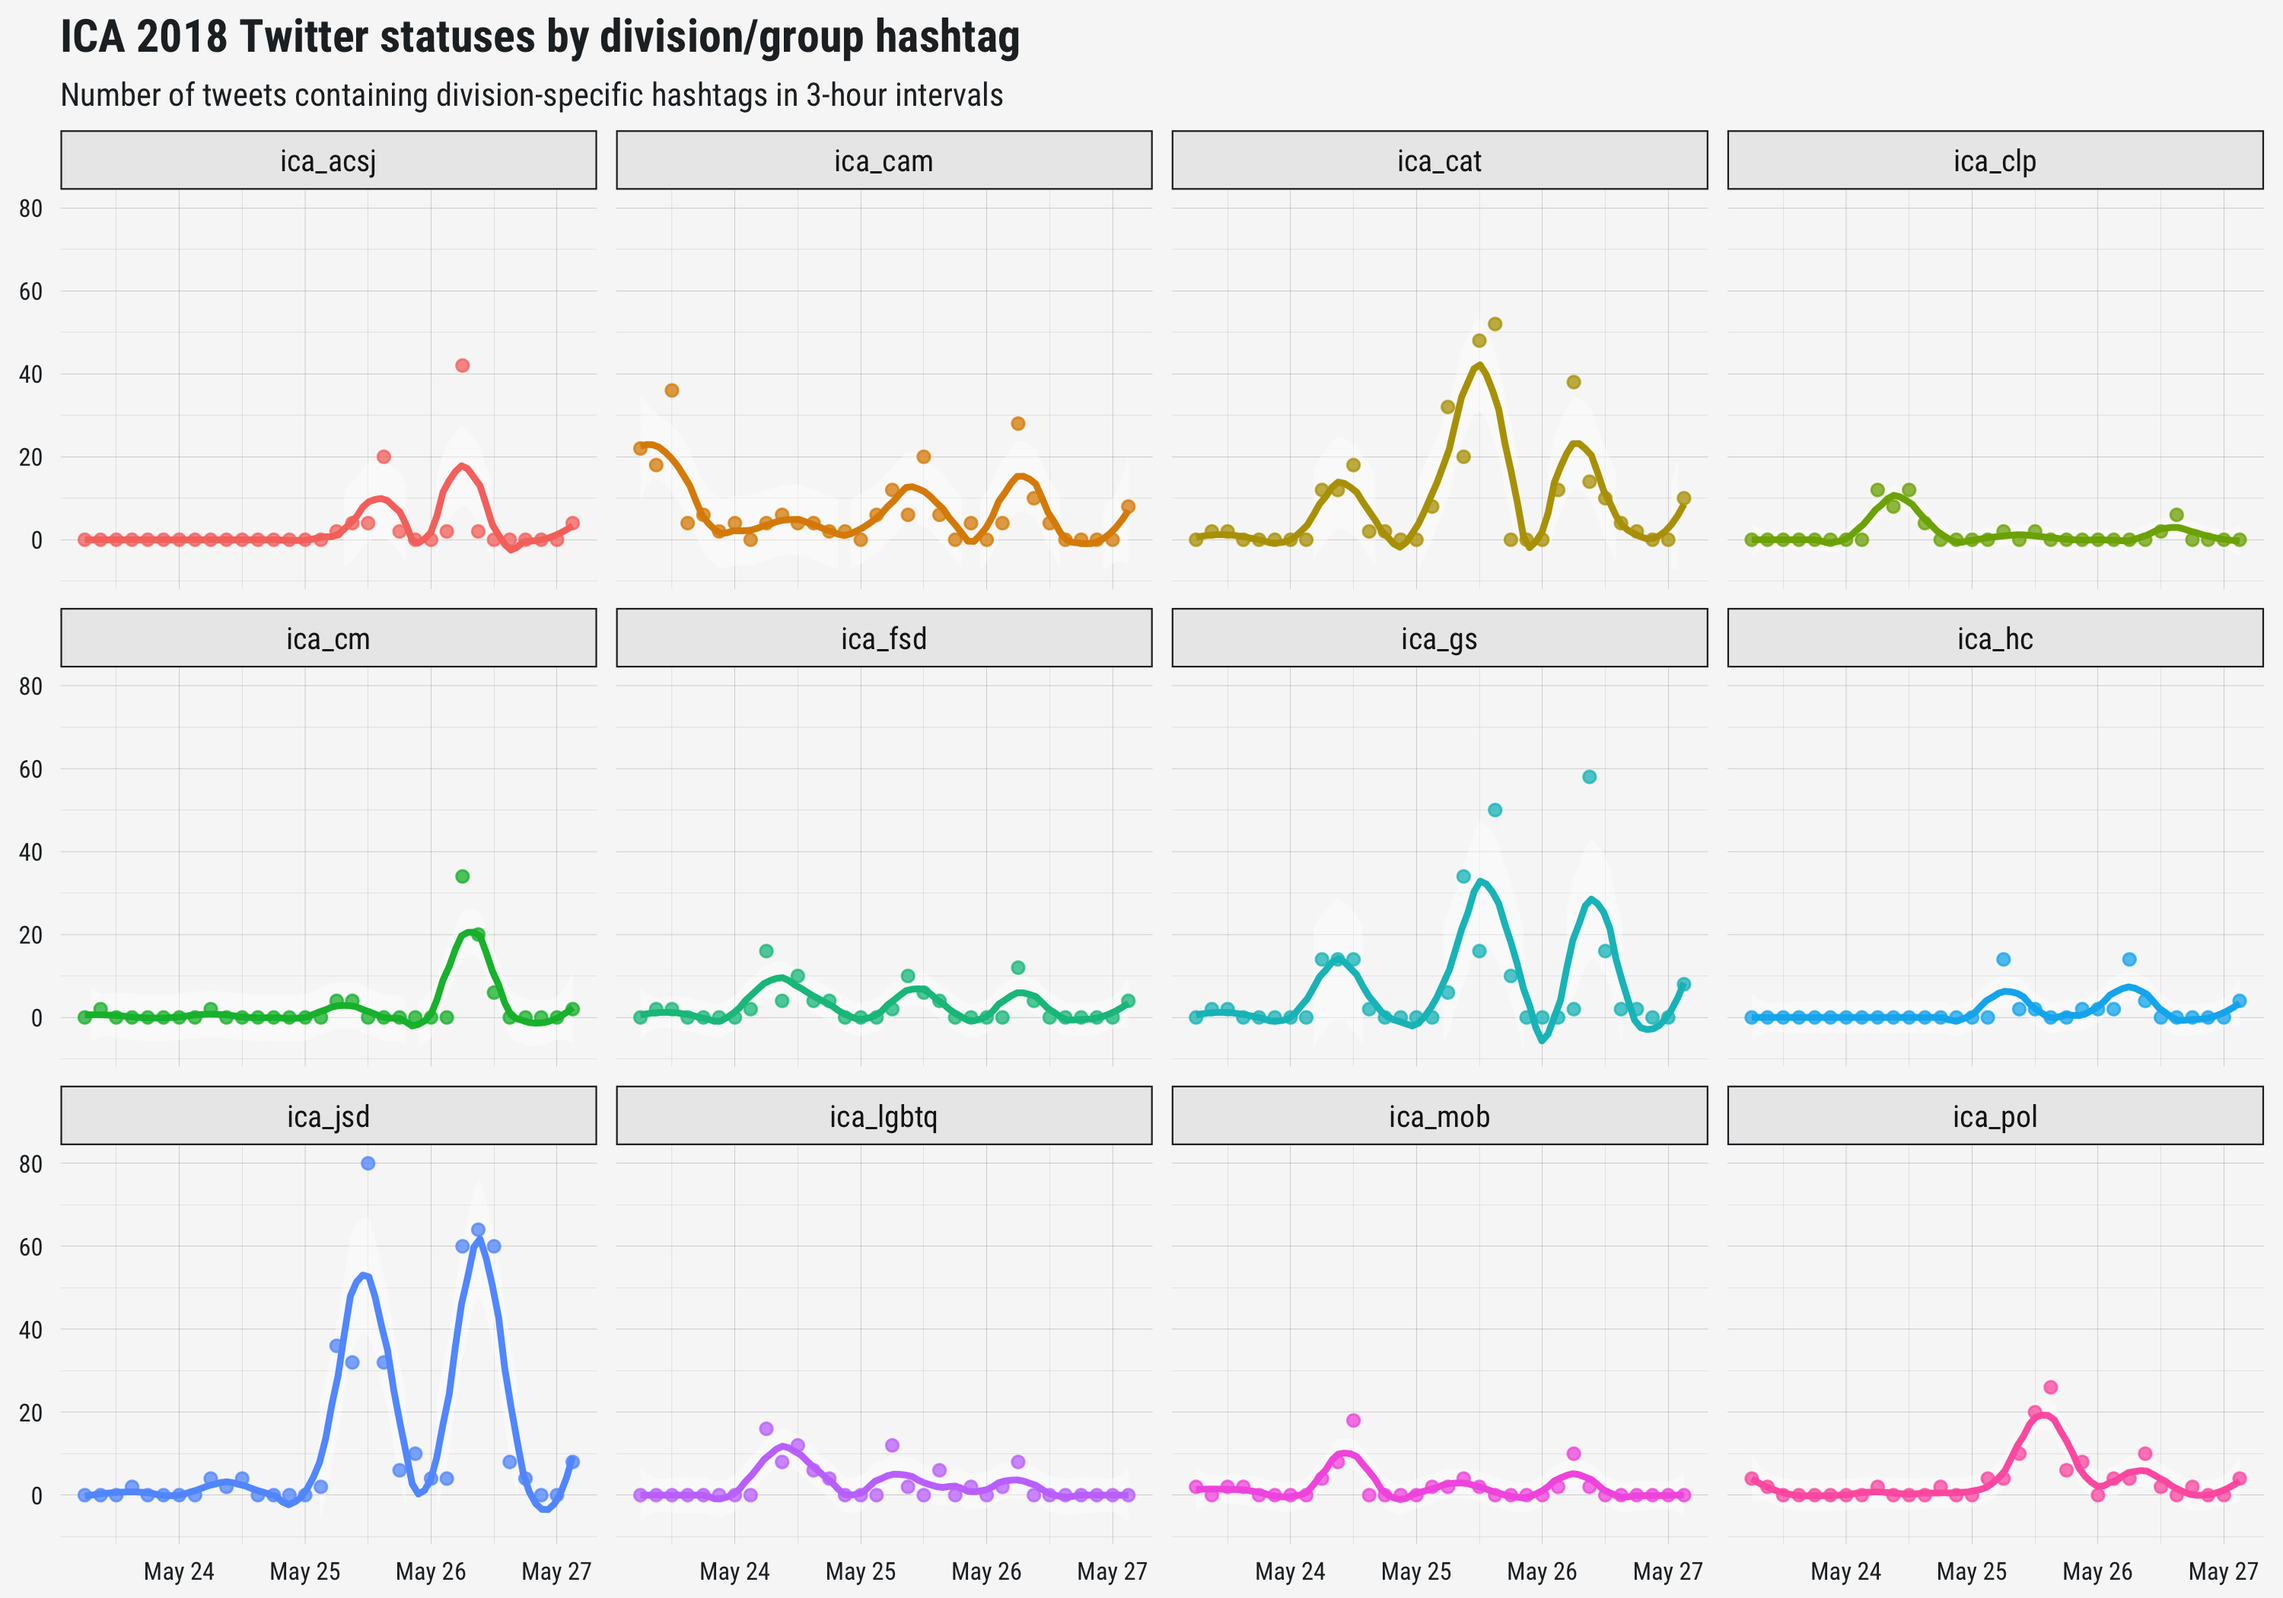
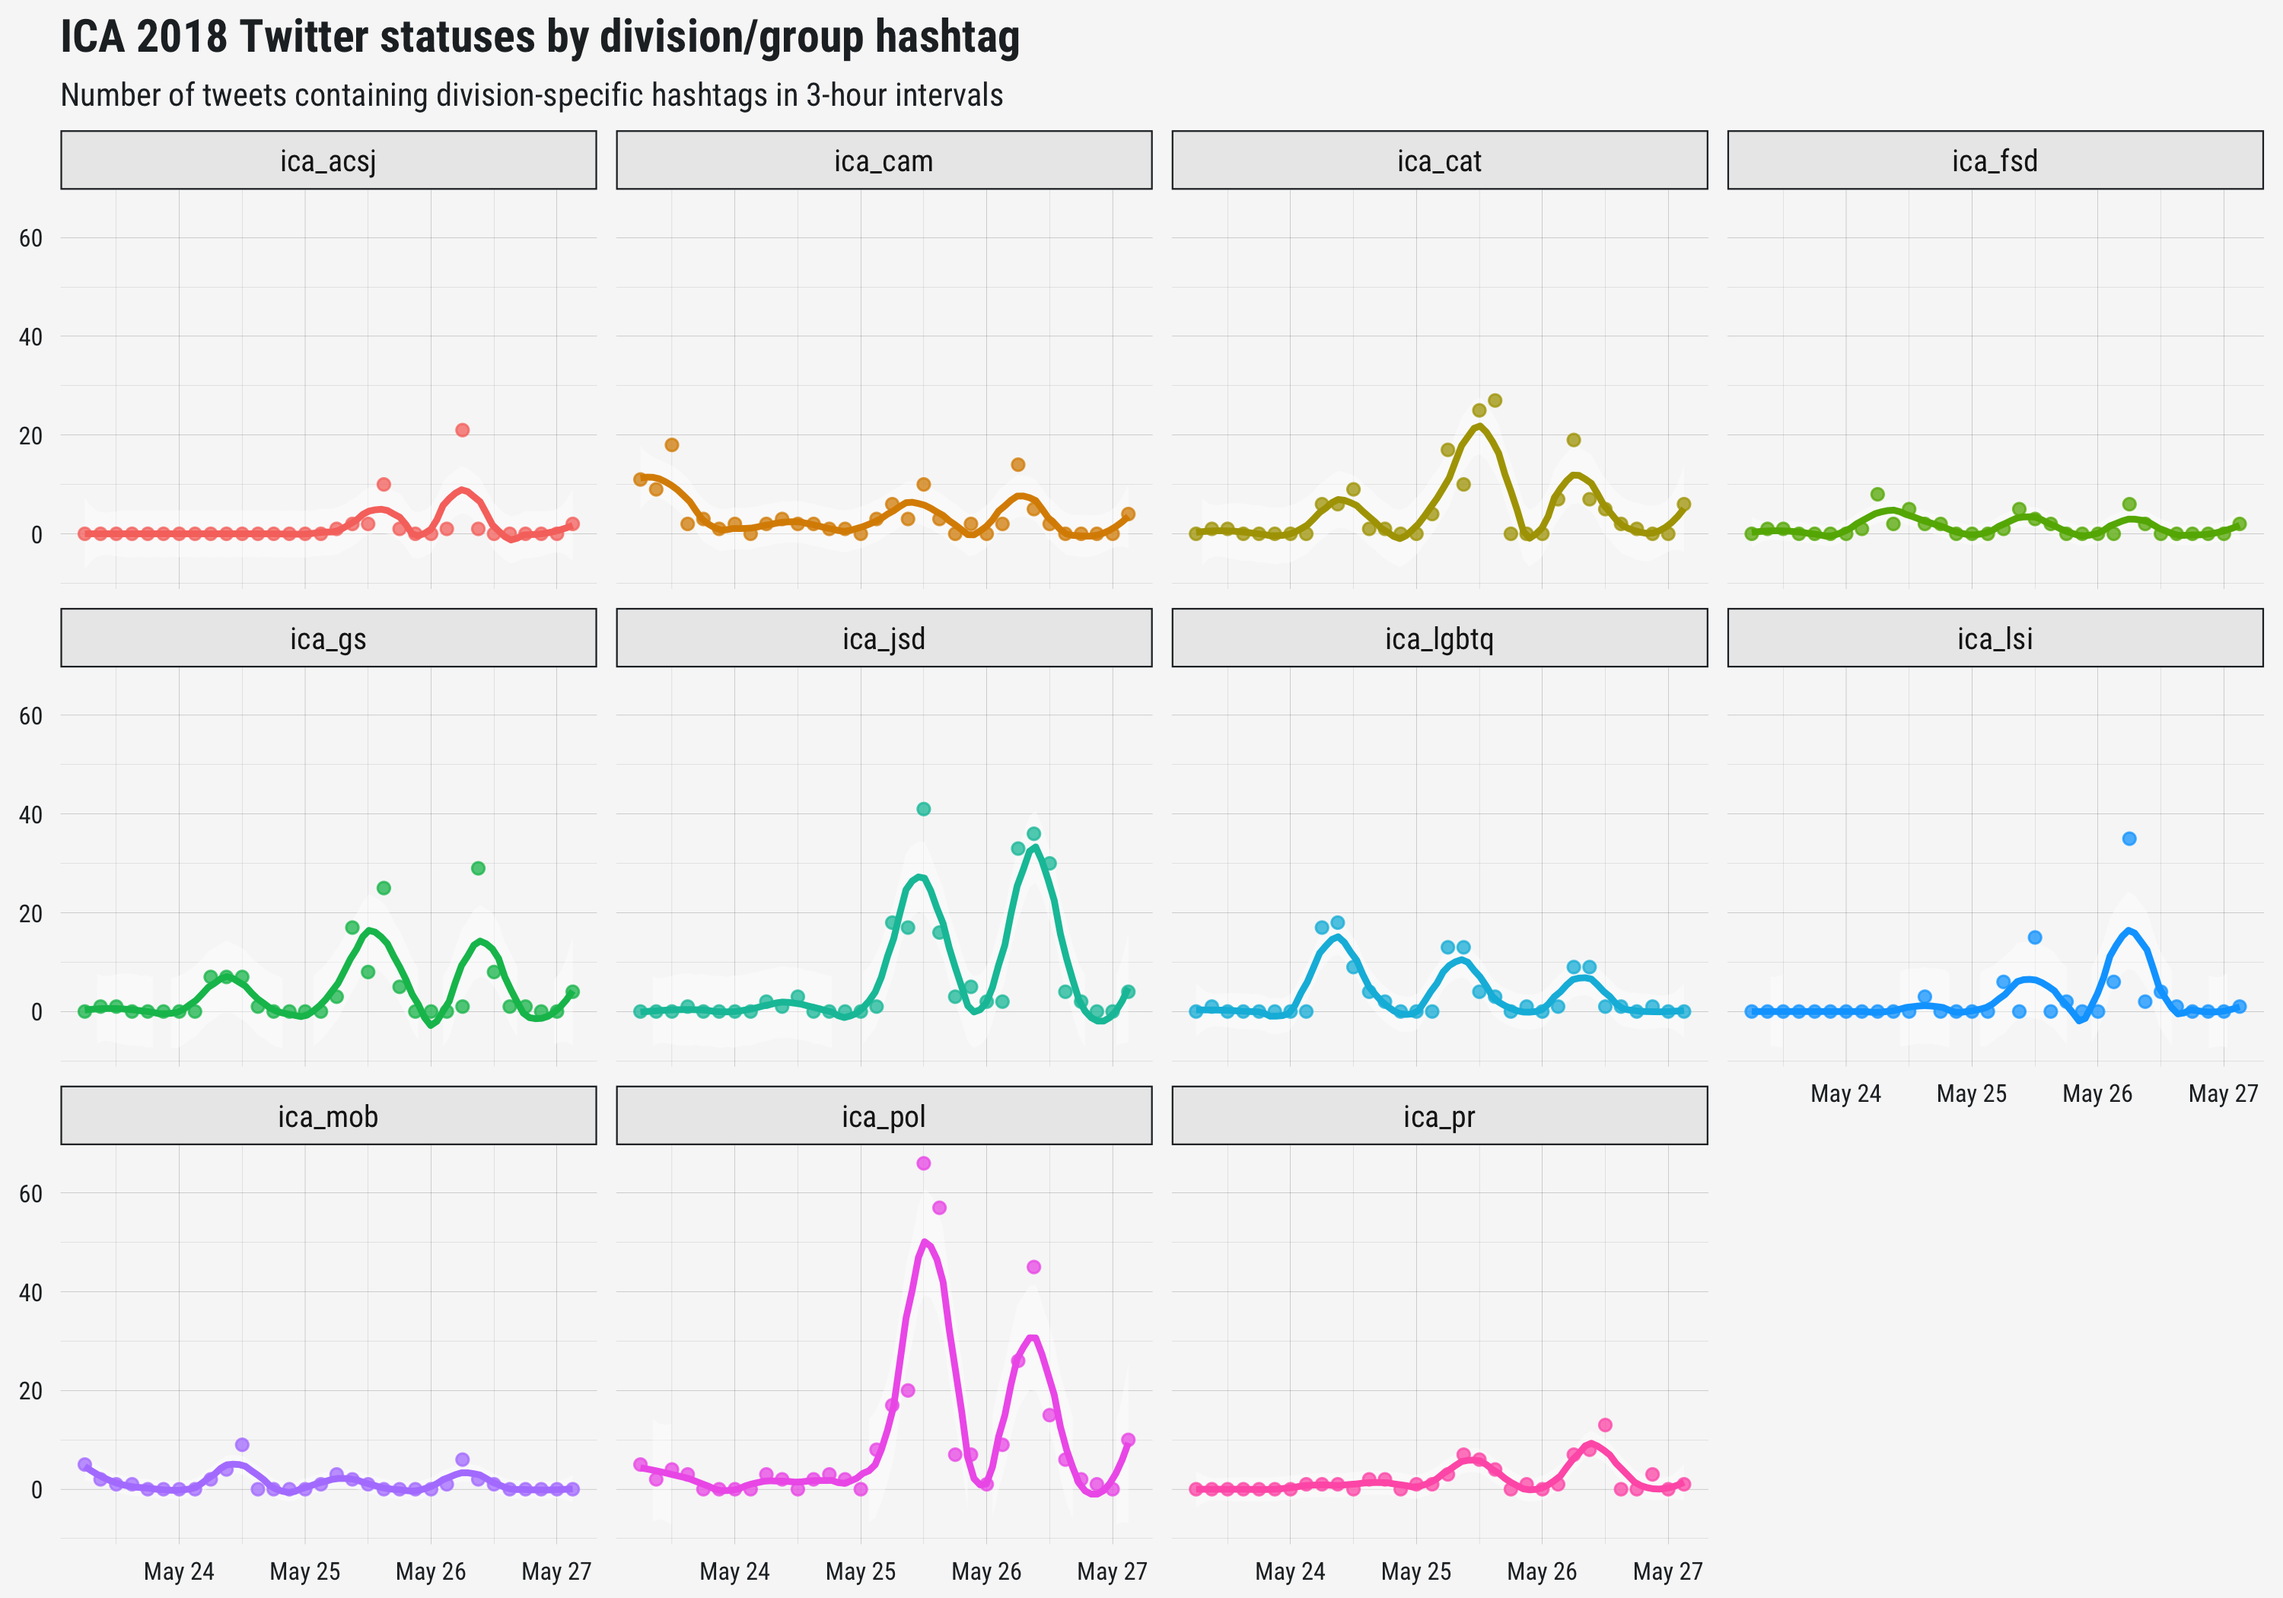
add division hashtags

diff --git a/README.md b/README.md
@@ -40,20 +40,20 @@ saveRDS(ica, file.path("data", "ica18.rds"))
 
 ## view data
 ica
-#> # A tibble: 10,623 x 87
+#> # A tibble: 10,658 x 87
 #>    user_id status_id created_at          screen_name text  source display_text_wi… reply_to_status…
 #>    <chr>   <chr>     <dttm>              <chr>       <chr> <chr>             <dbl> <chr>           
-#>  1 100424… 10005945… 2018-05-27 04:28:28 gwin_gwin   RT @… Twitt…             140. <NA>            
-#>  2 100448… 10006215… 2018-05-27 06:15:42 lauraolkko… #fak… Twitt…             196. <NA>            
-#>  3 100448… 10006236… 2018-05-27 06:24:03 lauraolkko… Defi… Twitt…             166. <NA>            
-#>  4 101038… 10006199… 2018-05-27 06:09:21 lsangalang  Peop… Twitt…             139. <NA>            
-#>  5 101038… 10006230… 2018-05-27 06:21:32 lsangalang  RT @… Twitt…             143. <NA>            
-#>  6 101038… 10006229… 2018-05-27 06:21:17 lsangalang  Expo… Twitt…             203. <NA>            
-#>  7 101038… 10006203… 2018-05-27 06:10:47 lsangalang  And … Twitt…              40. 100061995204966…
-#>  8 101336… 10004911… 2018-05-26 21:37:22 juanmalapro RT @… Twitt…             140. <NA>            
-#>  9 108161… 10006234… 2018-05-27 06:23:14 _HGZ_       RT @… Twitt…             140. <NA>            
-#> 10 108161… 10006233… 2018-05-27 06:22:56 _HGZ_       RT @… Twitt…             140. <NA>            
-#> # ... with 10,613 more rows, and 79 more variables: reply_to_user_id <chr>,
+#>  1 176186… 10006274… 2018-05-27 06:39:00 CatyBC      .@CM… Twitt…              81. <NA>            
+#>  2 148600… 10006268… 2018-05-27 06:36:38 aschrock    RT @… Tweet…             119. <NA>            
+#>  3 154785… 10006266… 2018-05-27 06:36:00 ICA_CAT     Plea… Tweet…              82. <NA>            
+#>  4 185552… 10006264… 2018-05-27 06:35:05 nikospan    RT @… Twitt…             140. <NA>            
+#>  5 189983… 10006264… 2018-05-27 06:35:18 CarolienNi… RT @… Twitt…             144. <NA>            
+#>  6 259832… 10006266… 2018-05-27 06:36:00 boomgaarde… RT @… Twitt…             139. <NA>            
+#>  7 310737… 10006266… 2018-05-27 06:35:59 DrSha       RT @… Twitt…             139. <NA>            
+#>  8 315607… 10006266… 2018-05-27 06:36:00 icahdq      "Nur… Hoots…             195. <NA>            
+#>  9 394285… 10006263… 2018-05-27 06:34:56 scroeser    The … Twitt…             248. 100062550173886…
+#> 10 5165901 10006270… 2018-05-27 06:37:27 Hermida     Time… Twitt…             165. 100062661754537…
+#> # ... with 10,648 more rows, and 79 more variables: reply_to_user_id <chr>,
 #> #   reply_to_screen_name <chr>, is_quote <lgl>, is_retweet <lgl>, favorite_count <int>,
 #> #   retweet_count <int>, hashtags <list>, symbols <list>, urls_url <list>, urls_t.co <list>,
 #> #   urls_expanded_url <list>, media_url <list>, media_t.co <list>, media_expanded_url <list>,
@@ -119,3 +119,9 @@ source("division_hashtags.R")
 #> Finished collecting tweets!
 #> `geom_smooth()` using method = 'loess'
 ```
+
+<p align="center">
+
+<img width="100%" height="auto" src="ica_divs.png" />
+
+</p>
